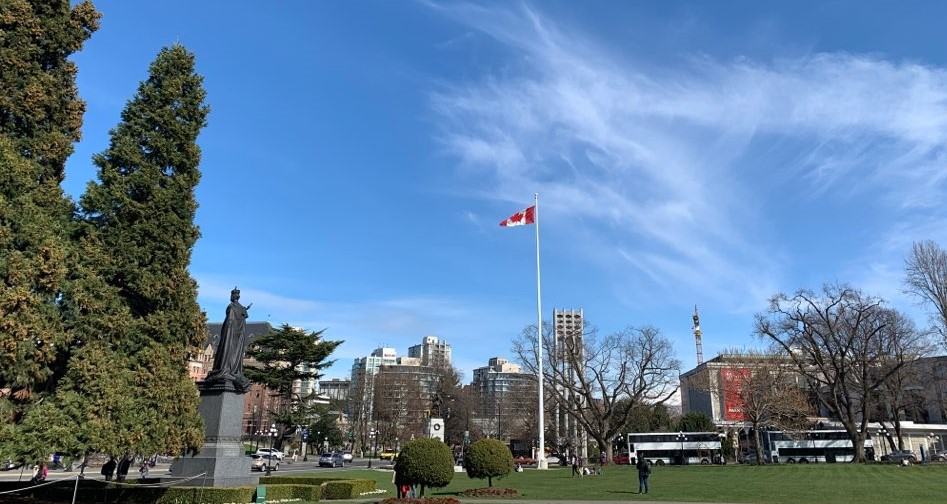
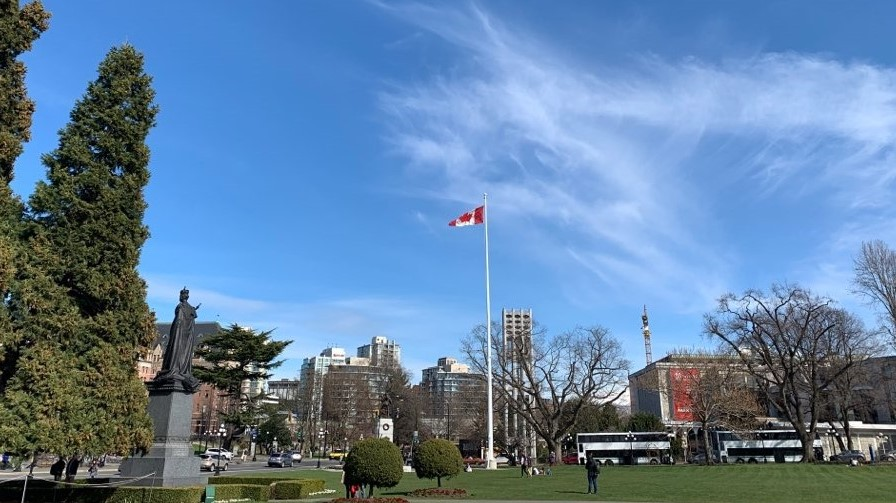
Crop static images to 16:9 aspect ratio, and delete duplicate image

diff --git a/src/assets/static/esl.html b/src/assets/static/esl.html
@@ -1,4 +1,4 @@
-<img src="assets/img/static/001-14.jpg" alt="">
+<img src="assets/img/static/001-04.png" alt="">
 <br>
 <br>
 <h4><strong>일반영어</strong></h4>
